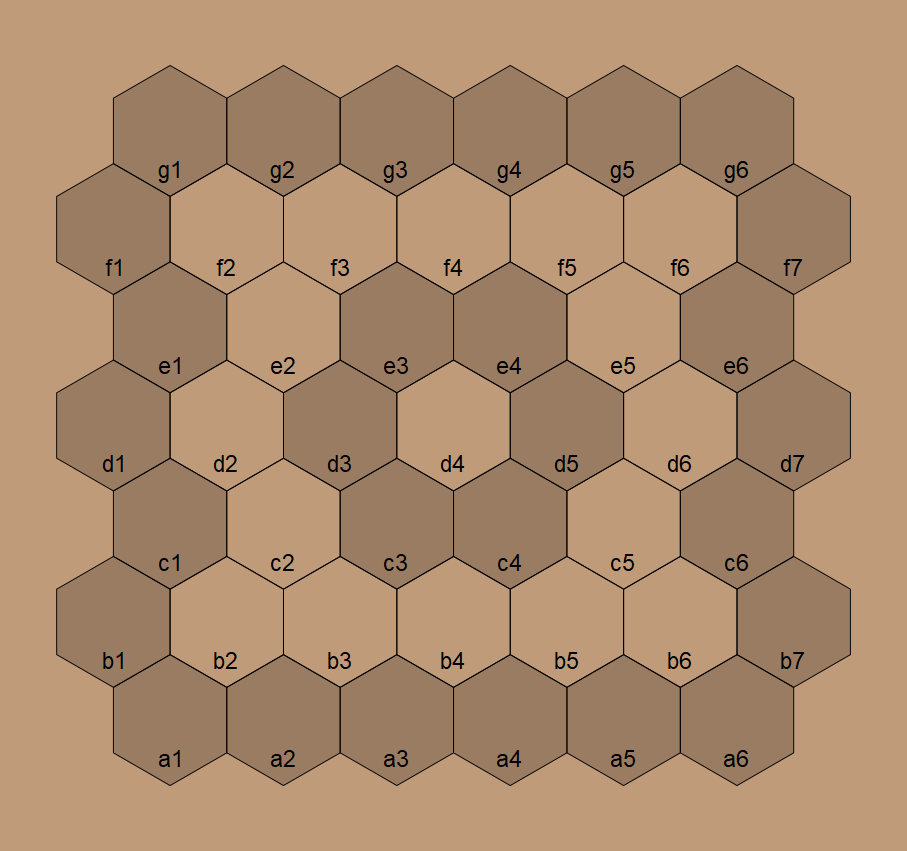
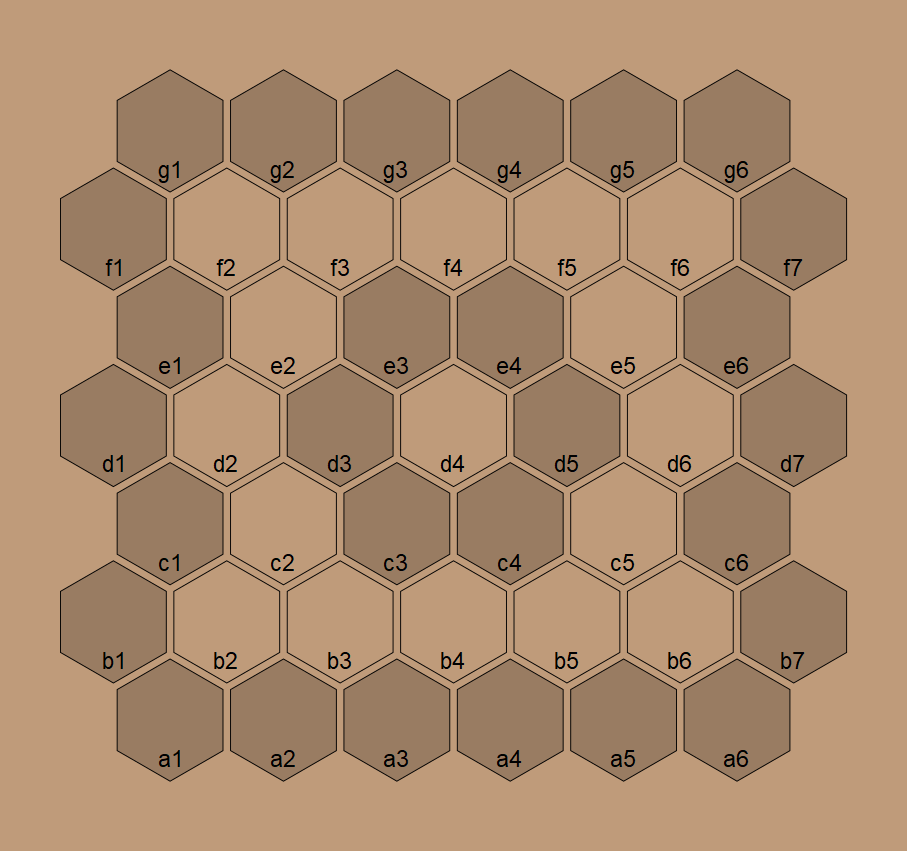
Add padding between hexagons

diff --git a/pijersi_svg/pijersi_svg.py b/pijersi_svg/pijersi_svg.py
@@ -161,6 +161,7 @@ class CanvasConfig:
     hexagon_width: float = None
     hexagon_side: float = None
     hexagon_height: float = None
+    hexagon_padding: float = None
     hexagon_line_width: float = None
     hexagon_line_color: str = None
     hexagon_opacity: float = None
@@ -193,6 +194,7 @@ def make_canvas_config():
     hexagon_width_cm = 3
     hexagon_side_cm = hexagon_width_cm/math.sqrt(3)
     hexagon_height_cm = 2*hexagon_side_cm
+    hexagon_padding_cm = 0.2
     hexagon_line_width_cm = 0.1/4
 
     max_horizontal_hexagon_count = 7
@@ -221,6 +223,7 @@ def make_canvas_config():
     hexagon_width = board_width*(hexagon_width_cm/board_width_cm)
     hexagon_side = board_width*(hexagon_side_cm/board_width_cm)
     hexagon_height = board_width*(hexagon_height_cm/board_width_cm)
+    hexagon_padding = board_width*(hexagon_padding_cm/board_width_cm)
 
     # Hexagon properties other than sizes
     hexagon_vertex_count = 6
@@ -262,6 +265,7 @@ def make_canvas_config():
                                  hexagon_width=hexagon_width,
                                  hexagon_side=hexagon_side,
                                  hexagon_height=hexagon_height,
+                                 hexagon_padding=hexagon_padding,
                                  hexagon_line_width=hexagon_line_width,
                                  hexagon_opacity=hexagon_opacity,
                                  hexagon_line_color=hexagon_line_color,
@@ -301,7 +305,7 @@ class Hexagon:
     Self = TypeVar("Self", bound="Hexagon")
 
     __slots__ = ('name', 'position_uv', 'ring', 'label_side',
-                 'index', 'center', 'vertex_data')
+                 'index', 'center')
 
     __all_sorted_hexagons = []
     __init_done = False
@@ -331,21 +335,6 @@ class Hexagon:
 
         self.center = CANVAS_CONFIG.origin + CANVAS_CONFIG.hexagon_width * \
             (u*CANVAS_CONFIG.unit_u + v*CANVAS_CONFIG.unit_v)
-
-        self.vertex_data = list()
-
-        for vertex_index in range(CANVAS_CONFIG.hexagon_vertex_count):
-            vertex_angle = (1/2 + vertex_index) * \
-                CANVAS_CONFIG.hexagon_side_angle
-
-            hexagon_vertex = self.center
-            hexagon_vertex = hexagon_vertex + CANVAS_CONFIG.hexagon_side * \
-                math.cos(vertex_angle)*CANVAS_CONFIG.unit_x
-            hexagon_vertex = hexagon_vertex + CANVAS_CONFIG.hexagon_side * \
-                math.sin(vertex_angle)*CANVAS_CONFIG.unit_y
-
-            self.vertex_data.append(hexagon_vertex[0])
-            self.vertex_data.append(hexagon_vertex[1])
 
     def __str__(self):
         return f"Hexagon({self.name}, {self.position_uv}, {self.index}"
@@ -500,7 +489,26 @@ def draw_pijersi_board(with_all_labels=True, without_labels=False):
 
     for abstract_hexagon in Hexagon.all:
 
-        hexagon = draw.Lines(*abstract_hexagon.vertex_data,
+        vertex_data = list()
+
+        scale = 1 - CANVAS_CONFIG.hexagon_padding/CANVAS_CONFIG.hexagon_width
+
+        for vertex_index in range(CANVAS_CONFIG.hexagon_vertex_count):
+            vertex_angle = (1/2 + vertex_index) * \
+                CANVAS_CONFIG.hexagon_side_angle
+
+            hexagon_vertex = abstract_hexagon.center
+
+            hexagon_vertex = hexagon_vertex + scale*CANVAS_CONFIG.hexagon_side * \
+                math.cos(vertex_angle)*CANVAS_CONFIG.unit_x
+
+            hexagon_vertex = hexagon_vertex + scale*CANVAS_CONFIG.hexagon_side * \
+                math.sin(vertex_angle)*CANVAS_CONFIG.unit_y
+
+            vertex_data.append(hexagon_vertex[0])
+            vertex_data.append(hexagon_vertex[1])
+
+        hexagon = draw.Lines(*vertex_data,
                              fill=None,
                              fill_opacity=CANVAS_CONFIG.hexagon_opacity *
                              (1 if abstract_hexagon.ring % 2 == 0 else 0),
